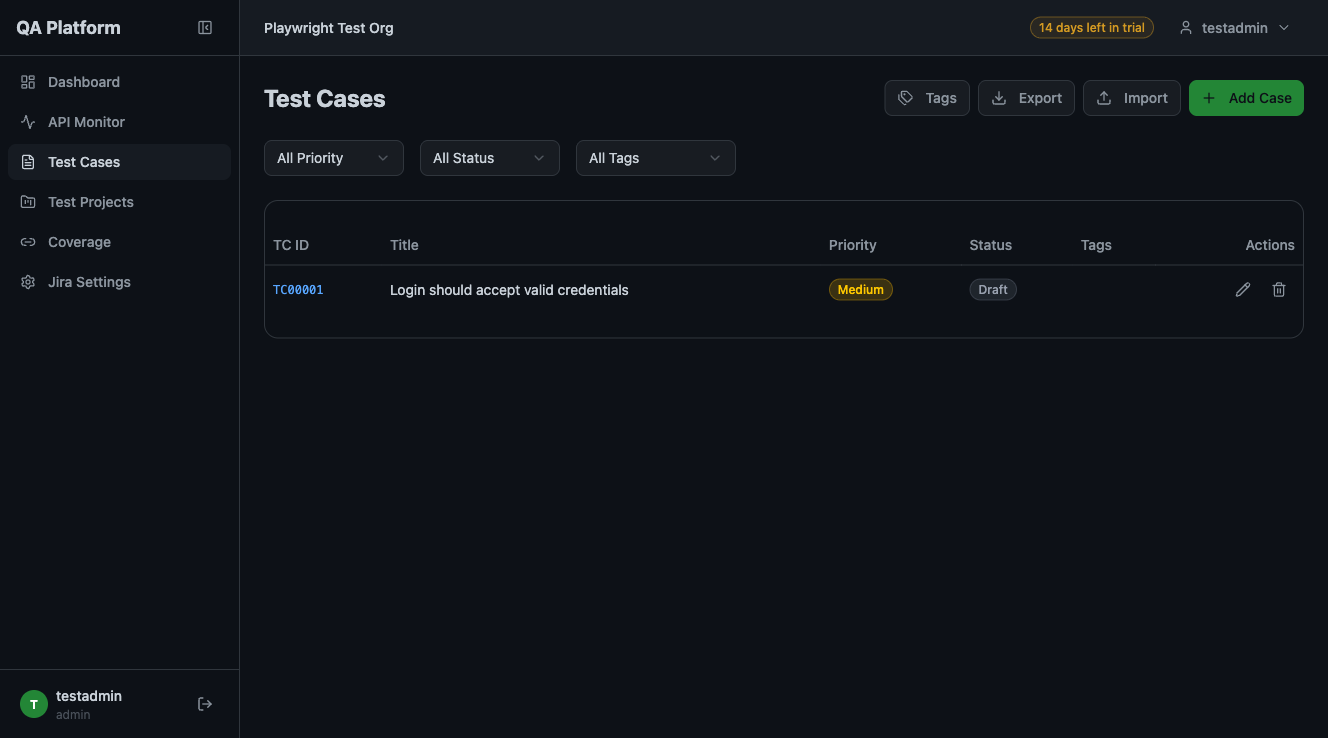
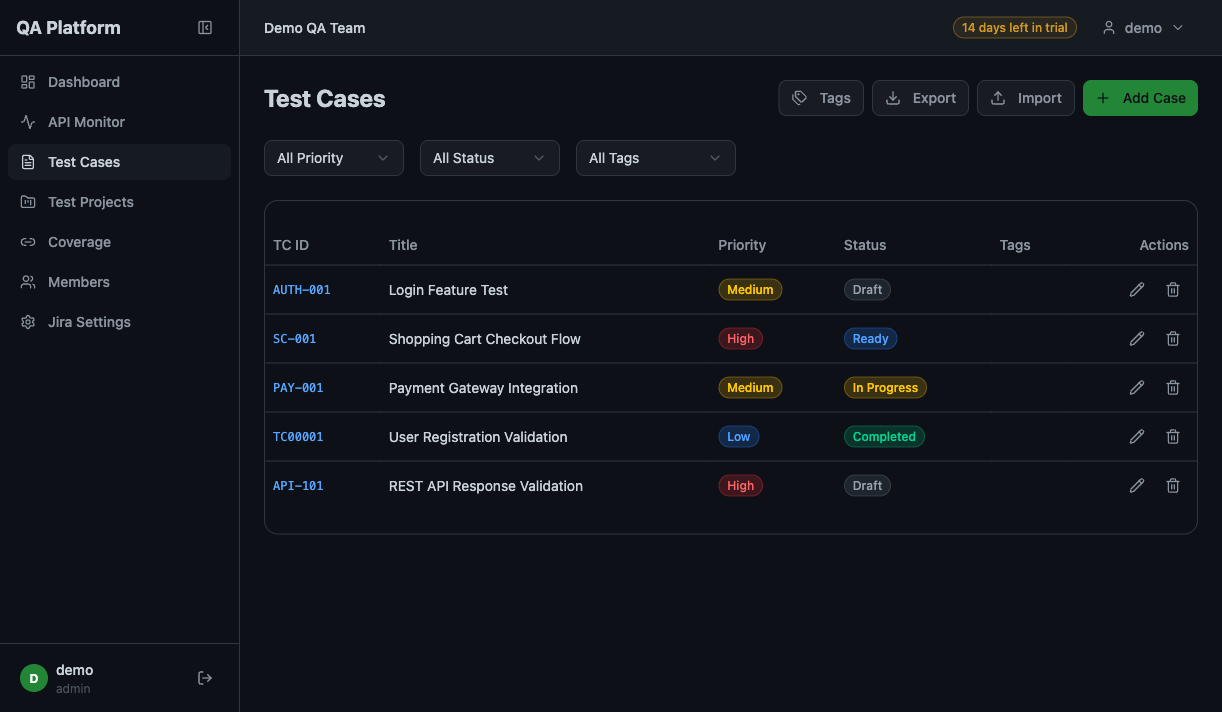
docs: update README and screenshot for custom TC ID feature
Update Test Cases description and feature table to reflect customizable
TC IDs (AUTH-001, SC-001, etc.) instead of fixed TC-format IDs.
Replace screenshot with new one showing mixed custom and auto-generated IDs.

diff --git a/README.md b/README.md
@@ -29,9 +29,9 @@ Add API endpoints, run health checks on demand, track response time and uptime h
 
 ### Test Cases 測試案例
 
-Create and manage test cases with TC-format IDs, filter by priority/status/tags, bulk import/export via CSV.
+Create and manage test cases with customizable TC IDs (e.g. AUTH-001, SC-001, PAY-001) or auto-generated sequential IDs. Filter by priority/status/tags, bulk import/export via CSV.
 
-建立與管理測試案例（TC 格式編號），依優先級/狀態/標籤篩選，支援 CSV 批量匯入匯出。
+建立與管理測試案例，支援自定義編號（如 AUTH-001、SC-001、PAY-001）或自動生成流水號。依優先級/狀態/標籤篩選，支援 CSV 批量匯入匯出。
 
 ![Test Cases](docs/screenshots/test-cases.png)
 
@@ -73,7 +73,7 @@ Connect your Jira instance with API Token, create issues from test results, sync
 
 | Feature 功能 | Description 說明 |
 |---|---|
-| **Test Case Management 測試案例管理** | CRUD with TC-format IDs, priority/status filters, CSV import/export, product tags 使用 TC 格式編號的完整 CRUD，優先級/狀態篩選，CSV 匯入匯出，產品標籤 |
+| **Test Case Management 測試案例管理** | CRUD with customizable TC IDs (e.g. AUTH-001, SC-001) or auto-generated sequential IDs, priority/status filters, CSV import/export, product tags 支援自定義編號或自動流水號的完整 CRUD，優先級/狀態篩選，CSV 匯入匯出，產品標籤 |
 | **Test Project Tracking 測試專案追蹤** | Project lifecycle (draft → in progress → completed), case assignment, per-case results, assignee per case 專案生命週期管理，案例分配，逐案結果追蹤，指派測試人員 |
 | **API Health Monitoring API 健康監控** | Scheduled checks, response time tracking, uptime %, on-demand Check Now 定時檢查，回應時間追蹤，上線率，即時手動檢查 |
 | **Coverage Analysis 覆蓋率分析** | API-to-test-case linking, uncovered API detection, coverage alerts API 與測試案例關聯，未覆蓋 API 偵測，覆蓋率告警 |
